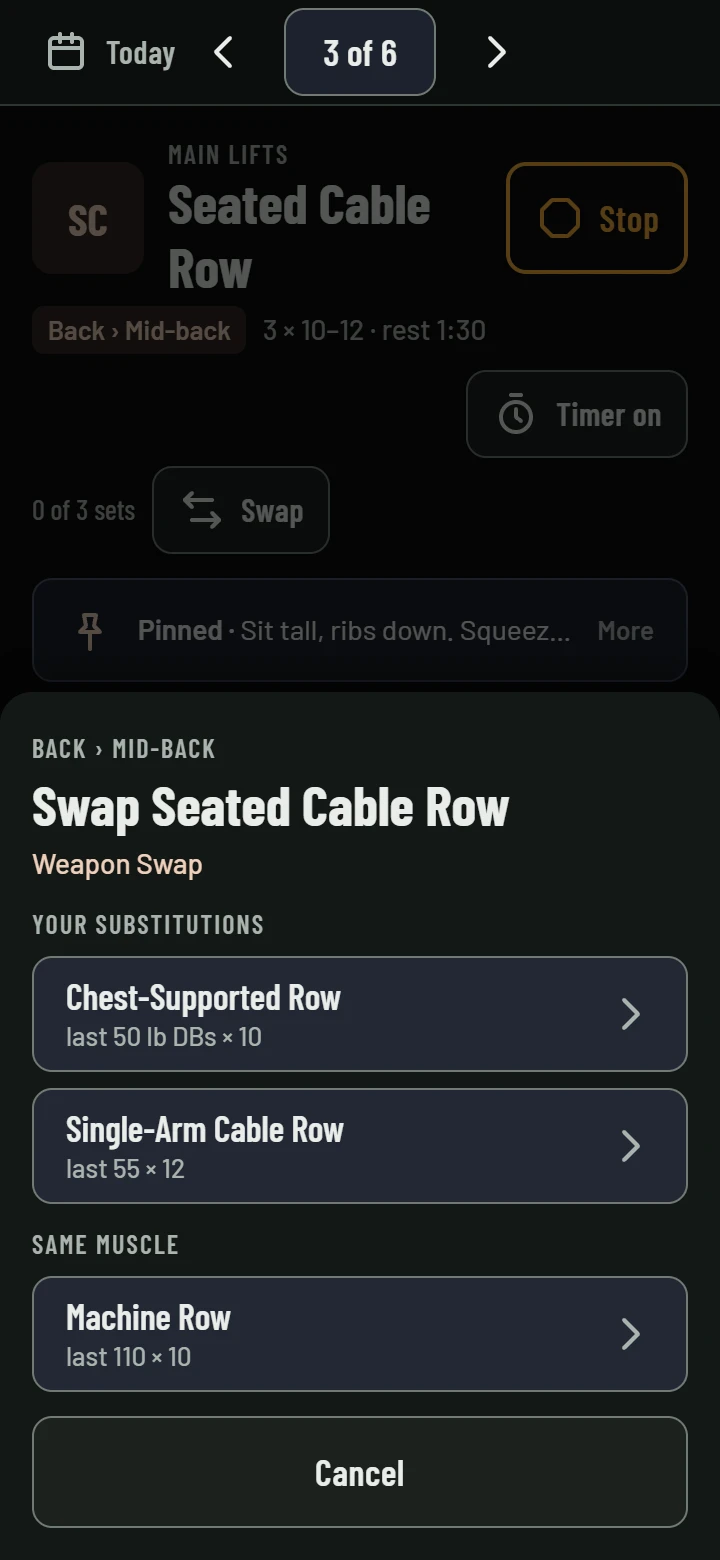
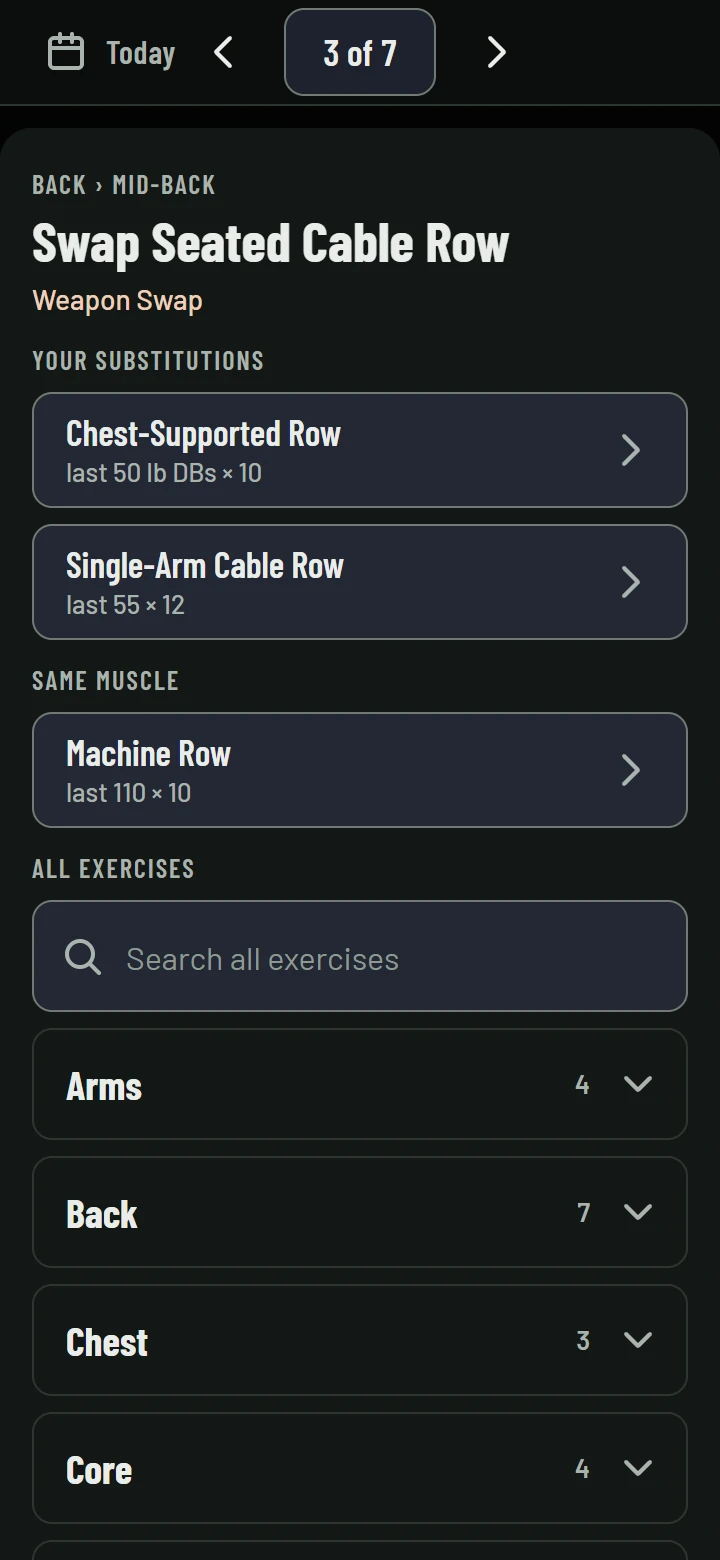
Release 0.6.0
Skip, the swap sheet's All exercises (and no duplicates), automatic
workout timing, and cardio logged as done. Version 0.5.1 -> 0.6.0 in
package.json, package-lock.json and pyproject.toml; the changelog's
Unreleased section becomes 0.6.0 (2026-11-23). Needs migrations 0008
and 0009 (server.ps1 migrate).

README: status line lists the new features; three screenshots
regenerated from the demo (the cardio row on Today, All exercises in the
swap sheet) with matching alt text.

diff --git a/README.md b/README.md
@@ -1,17 +1,17 @@
 # heavenly-restriction
 A self-hosted workout tracker for training hard within injury limits. FastAPI + PWA, offline logging, passkey login, private by design.
 
-**Status:** early build. Program import, today's session, set logging (add or remove sets for today; a rest timer you set to off, after every set or after each exercise), the library, exercise cards, progress and passkey sign-in work on real data; program editing and media upload are not built yet.
+**Status:** early build. Program import, today's session, set logging (add or remove sets for today, Skip, swap in any library exercise, cardio logged as done, automatic workout timing, and a rest timer you set to off, after every set or after each exercise), the library, exercise cards, progress and passkey sign-in work on real data; program editing and media upload are not built yet.
 
 <table>
   <tr>
     <td align="center" width="33%"><a href="docs/screenshots/today-plum-dark.webp"><img src="docs/screenshots/today-plum-dark.webp" width="240" alt="Today's workout in the Dark theme with the Plum accent: one exercise done, one in progress, Continue and Finish workout buttons"></a><br><b>Today's workout</b><br><sub>Dark theme, Plum (Toji) accent</sub></td>
     <td align="center" width="33%"><a href="docs/screenshots/today-swaps.webp"><img src="docs/screenshots/today-swaps.webp" width="240" alt="Today's list with a swapped exercise, Band Face Pull, Hammer Curl and a gear-based alternative"></a><br><b>Swaps and gear</b><br><sub>Swapped exercises and the next ones</sub></td>
-    <td align="center" width="33%"><a href="docs/screenshots/swap-sheet.webp"><img src="docs/screenshots/swap-sheet.webp" width="240" alt="Swap sheet for Seated Cable Row, opened from its page in the exercise pager, listing substitutions and same-muscle options with last weights"></a><br><b>Swap an exercise</b><br><sub>Your substitutions, then same muscle</sub></td>
+    <td align="center" width="33%"><a href="docs/screenshots/swap-sheet.webp"><img src="docs/screenshots/swap-sheet.webp" width="240" alt="Swap sheet for Seated Cable Row, opened from its page in the exercise pager, listing substitutions and same-muscle options with last weights, then All exercises with a search field and body regions"></a><br><b>Swap an exercise</b><br><sub>Your substitutions, then same muscle</sub></td>
   </tr>
   <tr>
     <td align="center" width="33%"><a href="docs/screenshots/today-blue-light.webp"><img src="docs/screenshots/today-blue-light.webp" width="240" alt="Today's workout in the Light theme with the Blue accent"></a><br><b>Light theme</b><br><sub>Blue (Six Eyes) accent</sub></td>
-    <td align="center" width="33%"><a href="docs/screenshots/today-alternatives.webp"><img src="docs/screenshots/today-alternatives.webp" width="240" alt="Today's list in the Light theme: a swap note and an alternative shown because the Hip Halo wasn't brought"></a><br><b>Alternatives</b><br><sub>Shown when gear wasn't brought</sub></td>
+    <td align="center" width="33%"><a href="docs/screenshots/today-alternatives.webp"><img src="docs/screenshots/today-alternatives.webp" width="240" alt="Today's list in the Light theme: a swap note, an alternative shown because the Hip Halo wasn't brought, and the cardio row with its minutes, incline and speed"></a><br><b>Alternatives</b><br><sub>Shown when gear wasn't brought</sub></td>
     <td align="center" width="33%"><a href="docs/screenshots/library.webp"><img src="docs/screenshots/library.webp" width="240" alt="Exercise library with search, filters and the Back region expanded to Lats, with grade badges"></a><br><b>Exercise library</b><br><sub>By body region and muscle</sub></td>
   </tr>
   <tr>

diff --git a/CHANGELOG.md b/CHANGELOG.md
@@ -7,6 +7,8 @@ change how things work.
 
 ## [Unreleased]
 
+## [0.6.0] - 2026-11-23
+
 ### Added
 - Skip on every exercise page: one tap marks the exercise Skipped for today, with no dialog. It
   is not a Stop: it records no stop event and nothing in the exercise's history, and sets already
@@ -293,7 +295,8 @@ change how things work.
 - A FastAPI server that serves the app and its API from one origin, with secret scanning, linting
   and tests set up from the start.
 
-[Unreleased]: https://github.com/CLochstampfor60/heavenly-restriction/compare/v0.5.1...HEAD
+[Unreleased]: https://github.com/CLochstampfor60/heavenly-restriction/compare/v0.6.0...HEAD
+[0.6.0]: https://github.com/CLochstampfor60/heavenly-restriction/compare/v0.5.1...v0.6.0
 [0.5.1]: https://github.com/CLochstampfor60/heavenly-restriction/compare/v0.5.0...v0.5.1
 [0.5.0]: https://github.com/CLochstampfor60/heavenly-restriction/compare/v0.4.1...v0.5.0
 [0.4.1]: https://github.com/CLochstampfor60/heavenly-restriction/releases/tag/v0.4.1
